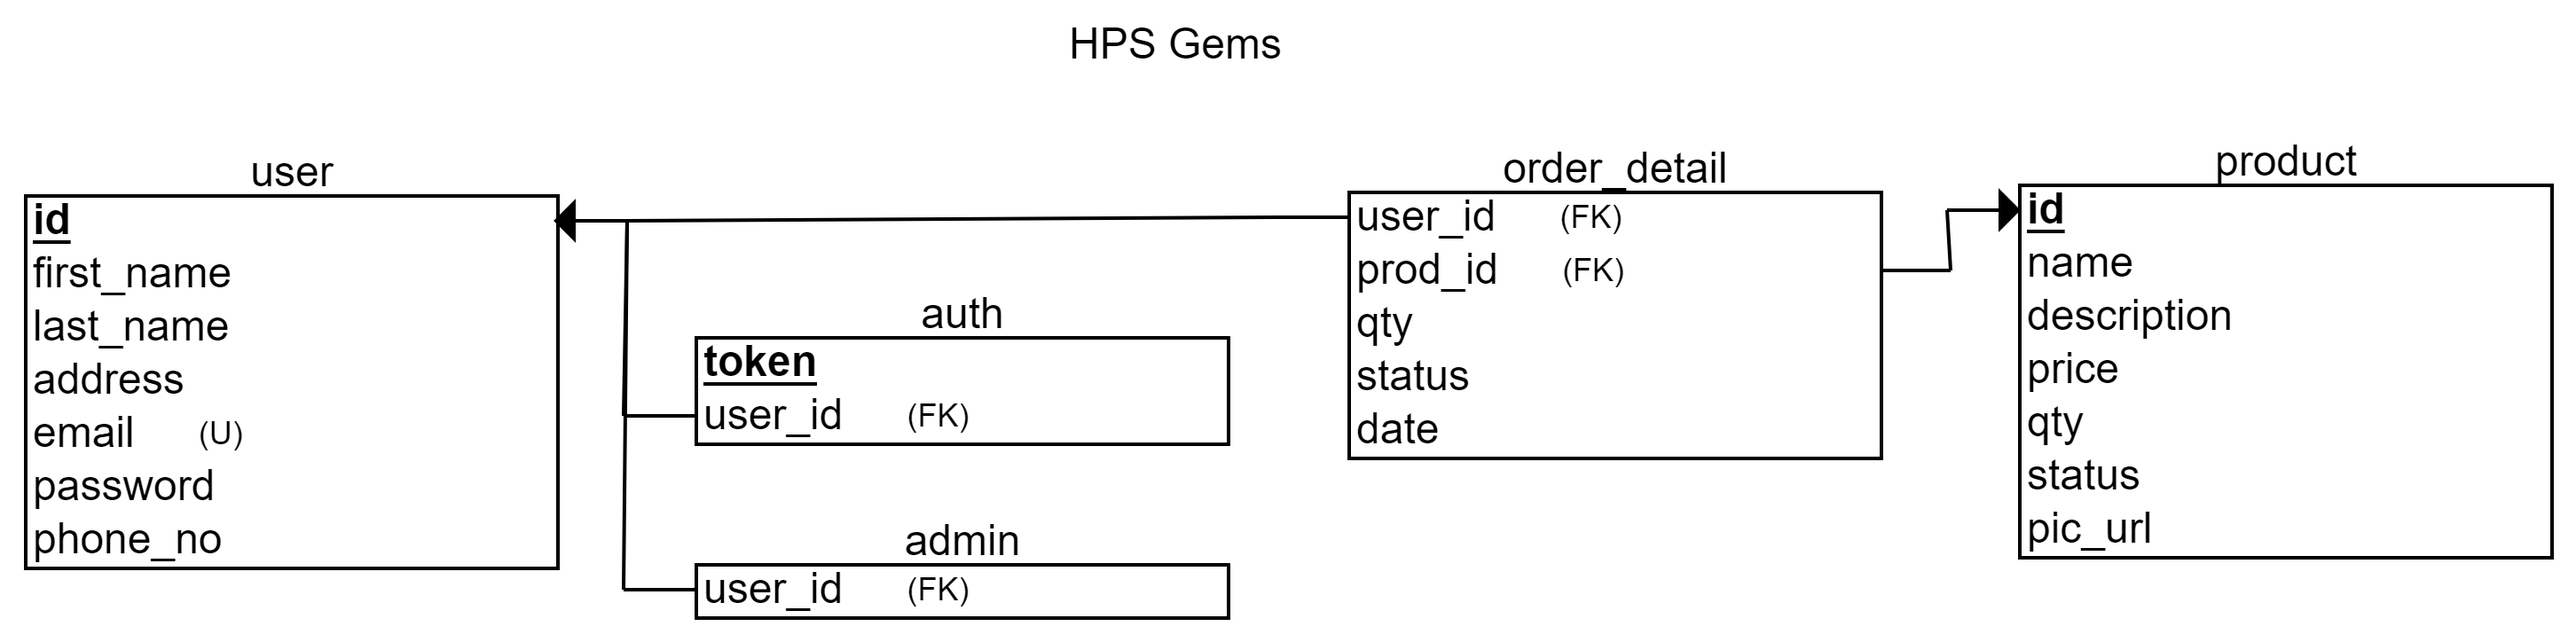
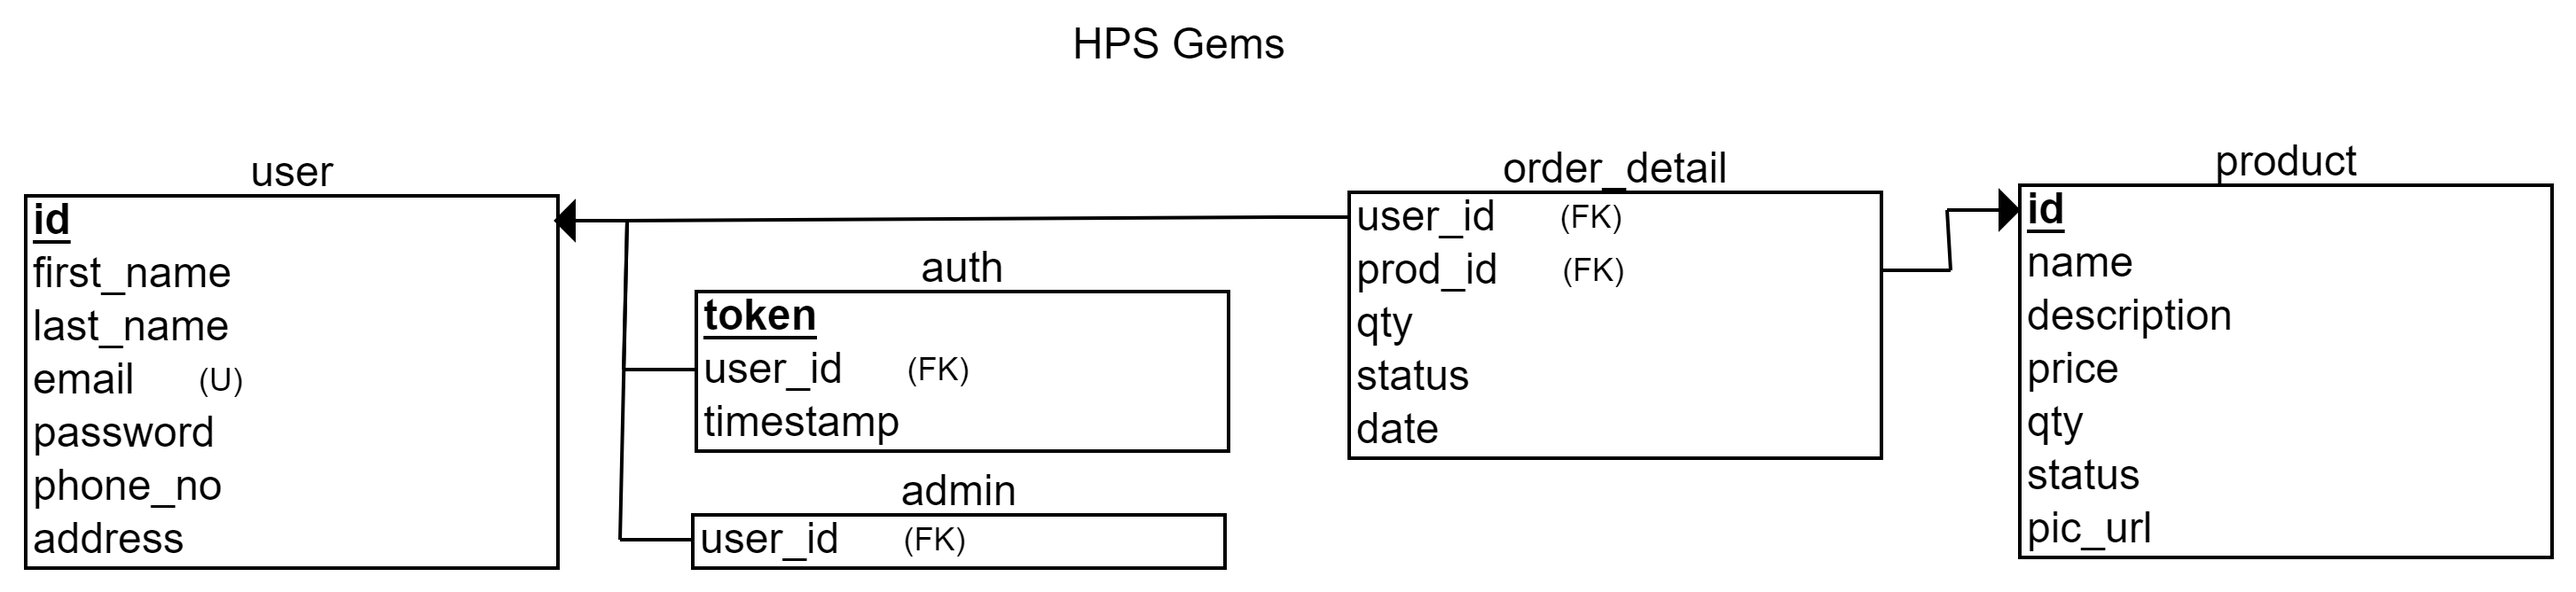
:sparkles: feat: Add login functionality

diff --git a/client/js/login.js b/client/js/login.js
@@ -1,0 +1,98 @@
+const email = document.querySelector("#e-mail");
+const password = document.querySelector("#password");
+const submit_btn = document.querySelector("button");
+const error_div = document.querySelector("#errors");
+
+let errors = [];
+
+submit_btn.addEventListener
+(
+	"click",
+	(e) =>
+	{
+		e.preventDefault();
+		
+		if(validate())
+			sendData();
+	}
+);
+
+
+function validate()
+{
+	if(email.value === "" || password.value === "")
+		errors.push("Please enter all fields.");
+	if(password.value.length < 6)
+		errors.push("The length of the password should be more than 5 characters.");
+
+	if(errors.length > 0)
+	{
+		displayErrors();
+		return false;
+	}
+	else
+		return true;
+}
+
+function displayErrors()
+{
+	for(let i = 0; i < errors.length; i++)
+		error_div.innerHTML += `${errors[i]}<br>`;
+
+	errors = [];
+}
+
+function sendData()
+{
+	const form_data = {
+		email: email.value,
+		password: password.value
+	};
+
+	fetch
+	(
+		"../../server/api/login.php",
+		{
+			method: "POST",
+			headers: {
+				"Content-Type": "application/json",
+				"Accept": "application/json"
+			},
+			mode: "same-origin",
+			body: JSON.stringify(form_data)
+		}
+	).then
+	(
+		(res) =>
+		{
+			if(res.ok)
+			{
+				return res.json();
+			}
+			else
+			{
+				errors.push("Failure in fetching data.");
+				displayErrors();
+
+				throw new Error("Failure in fetching data.");
+			}
+		}
+	).then
+	(
+		(res_data) =>
+		{
+			if(res_data.code === 200)
+			{
+				localStorage.setItem("hpsgemstoken", res_data.data.token);
+				window.location = "/hps-gems/index.html";
+			}
+			else
+			{
+				errors = res_data.errors;
+				displayErrors();
+
+				throw new Error(`${res_data.code} ${res_data.status}: ${res_data.errors}`);
+			}
+		}
+	).catch((err) => console.error(err));
+}

diff --git a/client/html/login.html b/client/html/login.html
@@ -4,6 +4,8 @@
 		<meta charset="UTF-8">
 		<meta name="viewport" content="width=device-width, initial-scale=1.0">
 
+		<script defer src="../js/login.js"></script>
+
 		<link rel="stylesheet" href="../css/base.css">
 		<link rel="stylesheet" href="../css/header.css">
 		<link rel="stylesheet" href="../css/login-signup.css">
@@ -29,15 +31,16 @@
 
 		<main>
 			<div id="main-title">Log In</div>
+			<div id="errors"></div>
 
 			<form action="#" method="POST" class="form">
 				<div class="input-group">
-					<input type="email" name="email" id="e-mail" placeholder="e-mail">
+					<input type="email" name="email" id="e-mail" placeholder="e-mail" autocomplete="email">
 					<label for="e-mail">e-mail</label>
 				</div>
 
                 <div class="input-group">
-                    <input type="password" name="password" id="password" placeholder="Password">
+                    <input type="password" name="password" id="password" placeholder="Password" autocomplete="current-password">
                     <label for="password">Password</label>
                 </div>
                 

diff --git a/server/api/login.php b/server/api/login.php
@@ -1,0 +1,72 @@
+<?php
+	header("Content-Type: application/json");
+	header("Accept: application/json");
+	
+	include_once("../config/Database.php");
+	include_once("../models/User.php");
+	include_once("../models/Auth.php");
+
+	$database = new Database();
+	$db = $database->connect();
+
+	$user = new User($db);
+	$auth = new Auth($db);
+
+	$errors = [];
+
+	$content_type = isset($_SERVER["CONTENT_TYPE"]) ? $_SERVER["CONTENT_TYPE"] : "";
+
+	if($content_type === "application/json")
+	{
+		$data = json_decode(file_get_contents("php://input"));
+
+		// Cleanse data
+		$email = htmlspecialchars(strip_tags(trim($data->email)));
+		$password = htmlspecialchars(strip_tags(trim($data->password)));
+
+		// Validation
+		if($email === "" || $password === "")
+			array_push($errors, "Please enter all fields.");
+		if(!filter_var($email, FILTER_VALIDATE_EMAIL))
+			array_push($errors, "Please enter a valid e-mail ID.");
+		if(strlen($password) < 6)
+			array_push($errors, "The length of the password should be more than 5 characters.");
+
+		if(count($errors) > 0)
+			echo json_encode(array("status" => "NOT ACCEPTABLE", "code" => 406, "data" => array(), "errors" => $errors));
+		else // Data is error-free
+		{
+			// Send data to 'User.php'
+			$user->email = $email;
+
+			$result_1 = $user->checkCredentials();
+
+			if($result_1["status"] === "success")
+			{
+				// Verify password
+				if(password_verify($password, $result_1["data"]["password"]))
+				{
+					// Generate token (64 char hex str)
+					$token = bin2hex(random_bytes(32));
+
+					// Store token in DB
+					$auth->token = $token;
+					$auth->user_id = $result_1["data"]["id"];
+
+					$result_2 = $auth->storeToken();
+
+					if($result_2["status"] === "success")
+						echo json_encode(array("status" => "OK", "code" => 200, "data" => array("token" => $token), "errors" => array()));
+					else
+						echo json_encode(array("status" => "INTERNAL SERVER ERROR", "code" => 500, "data" => array(), "errors" => array("Database error")));
+				}
+				else
+					echo json_encode(array("status" => "UNAUTHORIZED", "code" => 401, "data" => array(), "errors" => array("Invalid e-mail or password.")));
+			}
+			else
+				echo json_encode(array("status" => "INTERNAL SERVER ERROR", "code" => 500, "data" => array(), "errors" => array("Database error")));
+		}
+	}
+	else
+		echo json_encode(array("status" => "NOT ACCEPTABLE", "code" => 406, "data" => array(), "errors" => array("Error in receiving data.")));
+?>

diff --git a/server/models/User.php b/server/models/User.php
@@ -43,13 +43,43 @@
 			try
 			{
 				if($stmt->execute())
-					return array("status" => "success");
+					return array("status" => "success", "data" => array());
 				else
-					return array("status" => "failure");
+					return array("status" => "failure", "data" => array());
 			}
 			catch(PDOException $e)
 			{
-				return array("status" => "failure");
+				return array("status" => "failure", "data" => array());
+			}
+		}
+
+		public function checkCredentials()
+		{
+			$query = "SELECT
+						id,
+						password
+					FROM
+						$this->table_name
+					WHERE
+						email = :email
+			";
+
+			// Prepare data
+			$stmt = $this->conn->prepare($query);
+
+			// Bind data
+			$stmt->bindParam(":email", $this->email);
+
+			try
+			{
+				if($stmt->execute())
+					return array("status" => "success", "data" => $stmt->fetch(PDO::FETCH_ASSOC));
+				else
+					return array("status" => "failure", "data" => array());
+			}
+			catch(PDOException $e)
+			{
+				return array("status" => "failure", "data" => array());
 			}
 		}
 	}

diff --git a/server/models/Auth.php b/server/models/Auth.php
@@ -1,0 +1,44 @@
+<?php
+	class Auth
+	{
+		private $conn;
+		private $table_name = "auth";
+
+		public $token;
+		public $user_id;
+
+		public function __construct($db)
+		{
+			$this->conn = $db;
+		}
+
+		public function storeToken()
+		{
+			$query = "INSERT INTO
+						$this->table_name
+					SET
+						token = :token,
+						user_id = :user_id
+			";
+
+			// Prepare data
+			$stmt = $this->conn->prepare($query);
+
+			// Bind data
+			$stmt->bindParam(":token", $this->token);
+			$stmt->bindParam(":user_id", $this->user_id);
+
+			try
+			{
+				if($stmt->execute())
+					return array("status" => "success", "data" => array());
+				else
+					return array("status" => "failure", "data" => array());
+			}
+			catch(PDOException $e)
+			{
+				return array("status" => "failure", "data" => array());
+			}
+		}
+	}
+?>
